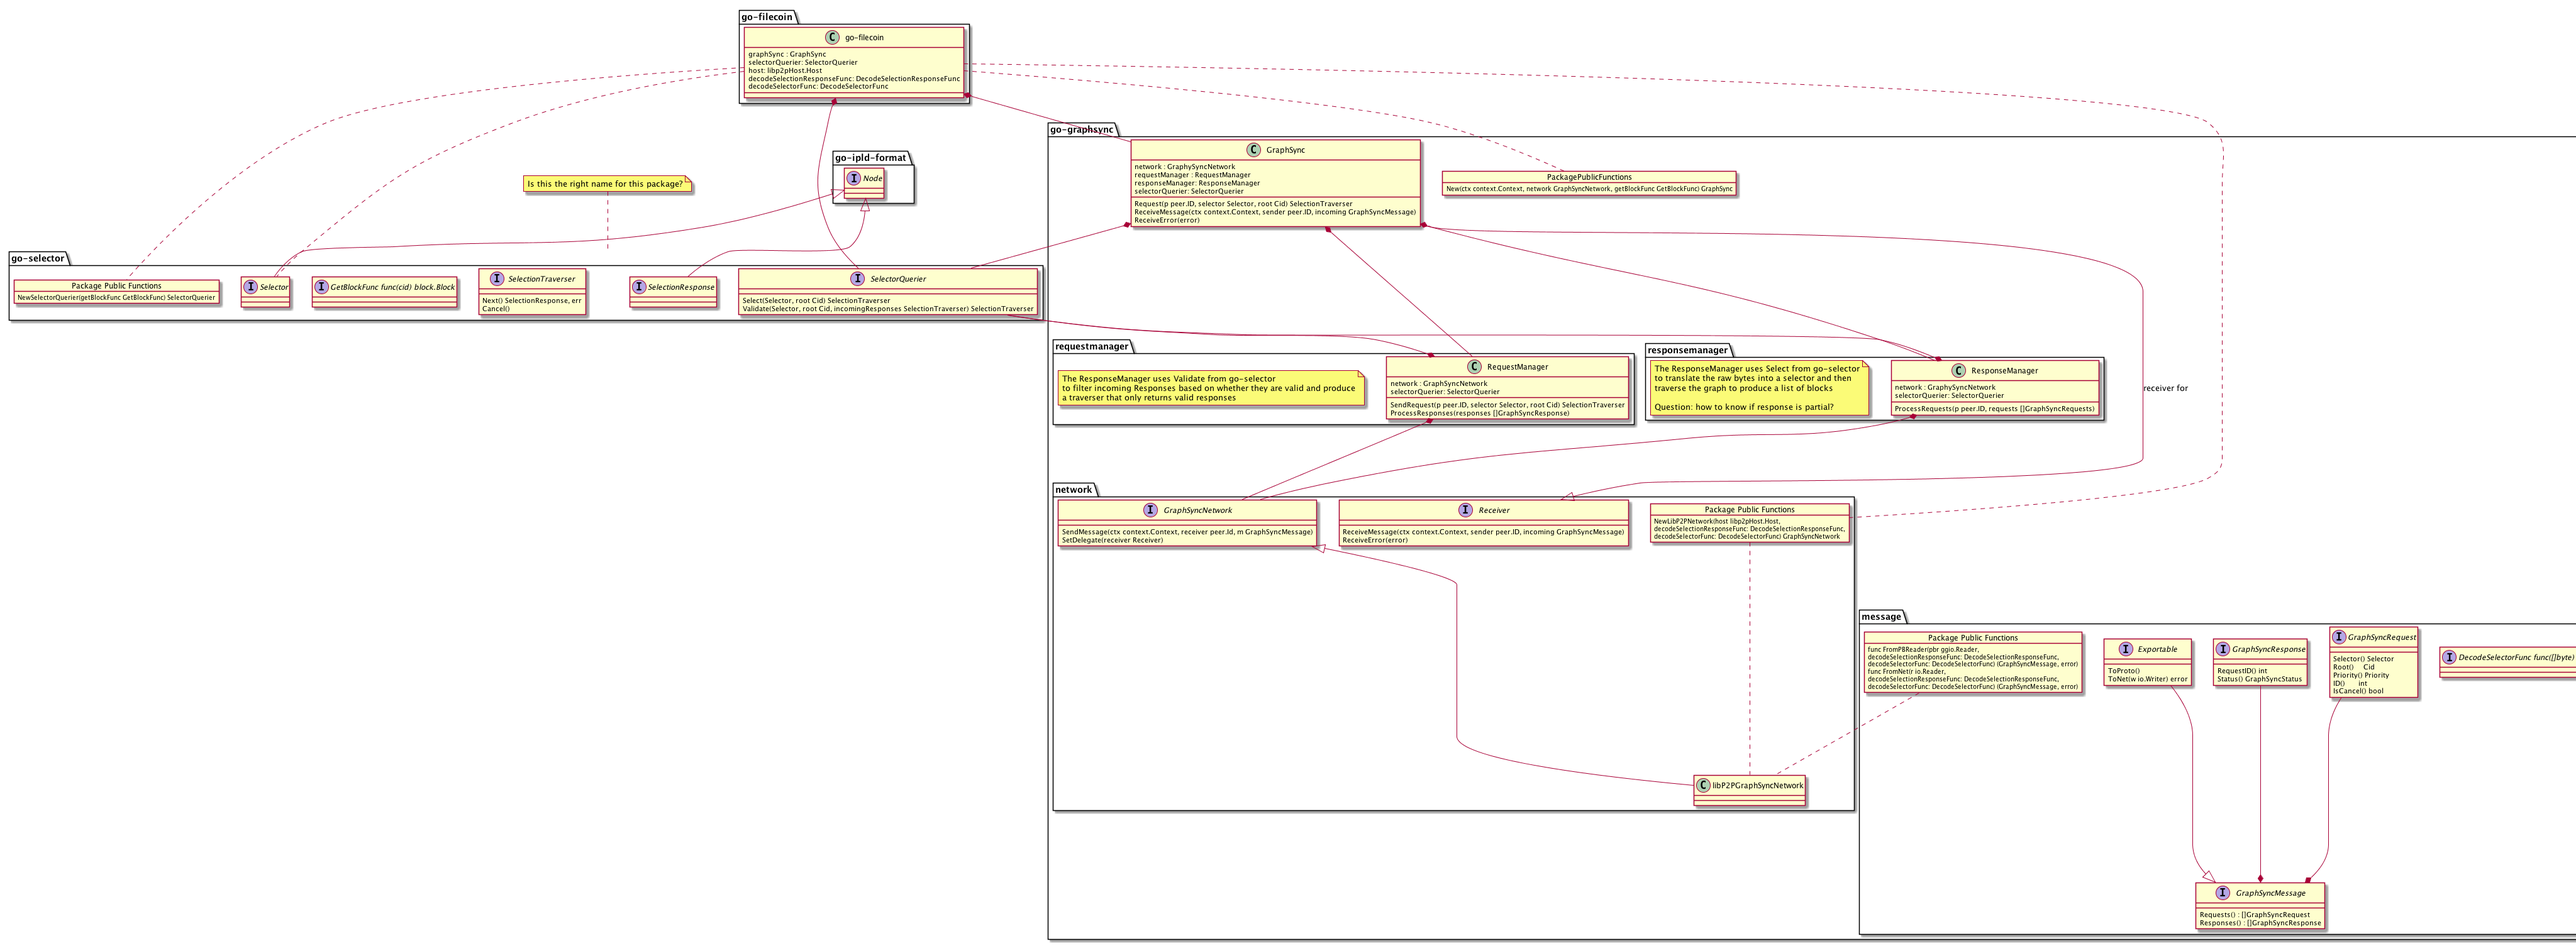
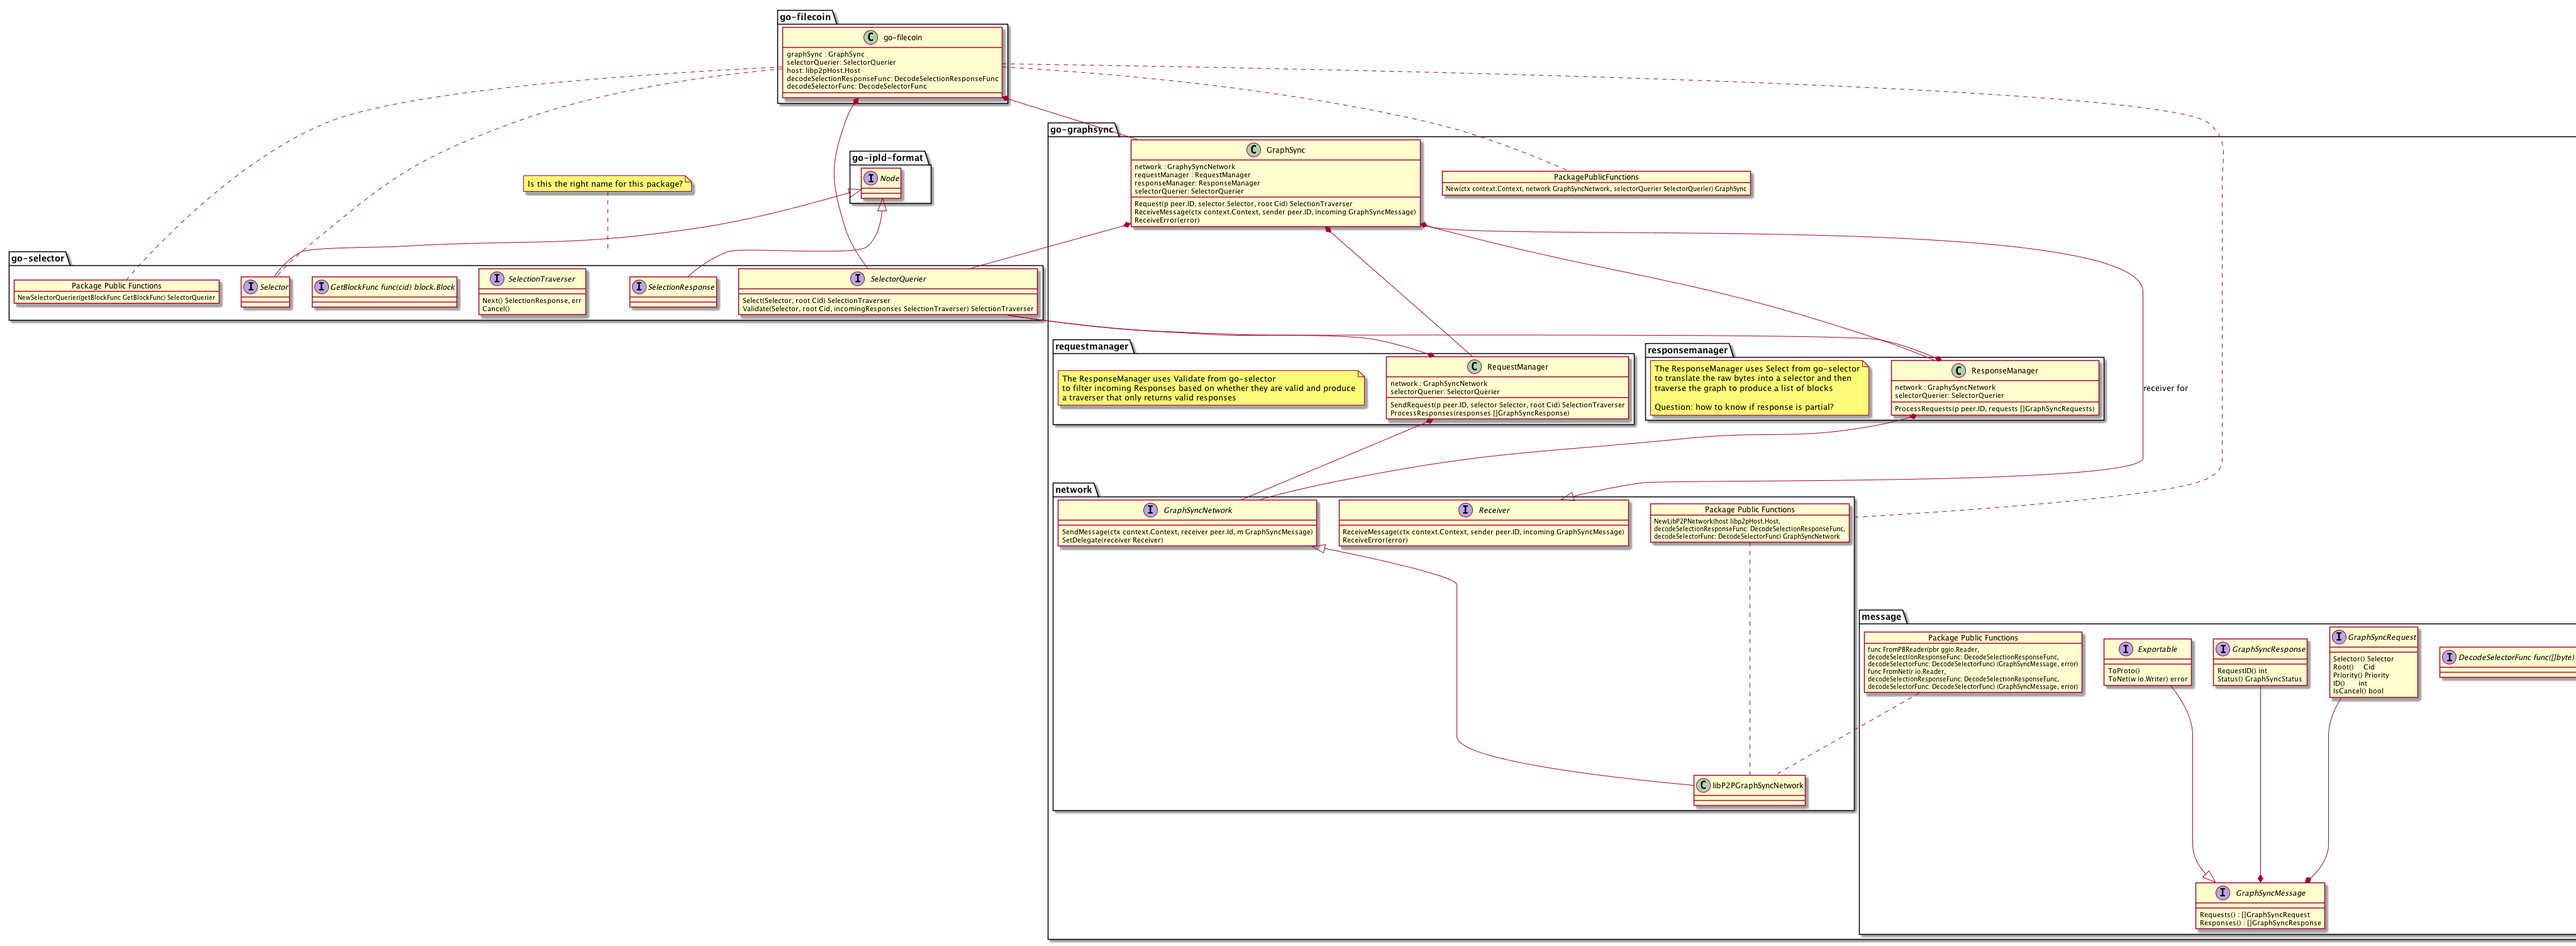
fix(global): minor cleanups
correction to diagram, protobuff, and remove test function not needed

Changed region(s): [[0.2812, 0.0, 0.4062, 0.1249], [0.3125, 0.1561, 0.375, 0.2186], [0.5938, 0.1874, 0.6875, 0.2186]]

diff --git a/testselector/testselector.go b/testselector/testselector.go
@@ -106,12 +106,6 @@ func MockDecodeSelectionResponseFunc(data []byte) gsselector.SelectionResponse {
 	return newNode(data)
 }
 
-// MockDecodeRootNodeFunc decodes raw data to a type that satisfies an
-// IPLD node interface
-func MockDecodeRootNodeFunc(data []byte) ipld.Node {
-	return newNode(data)
-}
-
 // GenerateSelector returns a new mock Selector
 func GenerateSelector() gsselector.Selector {
 	node := newNode(randomBytes(blockSize, seedSeq))
